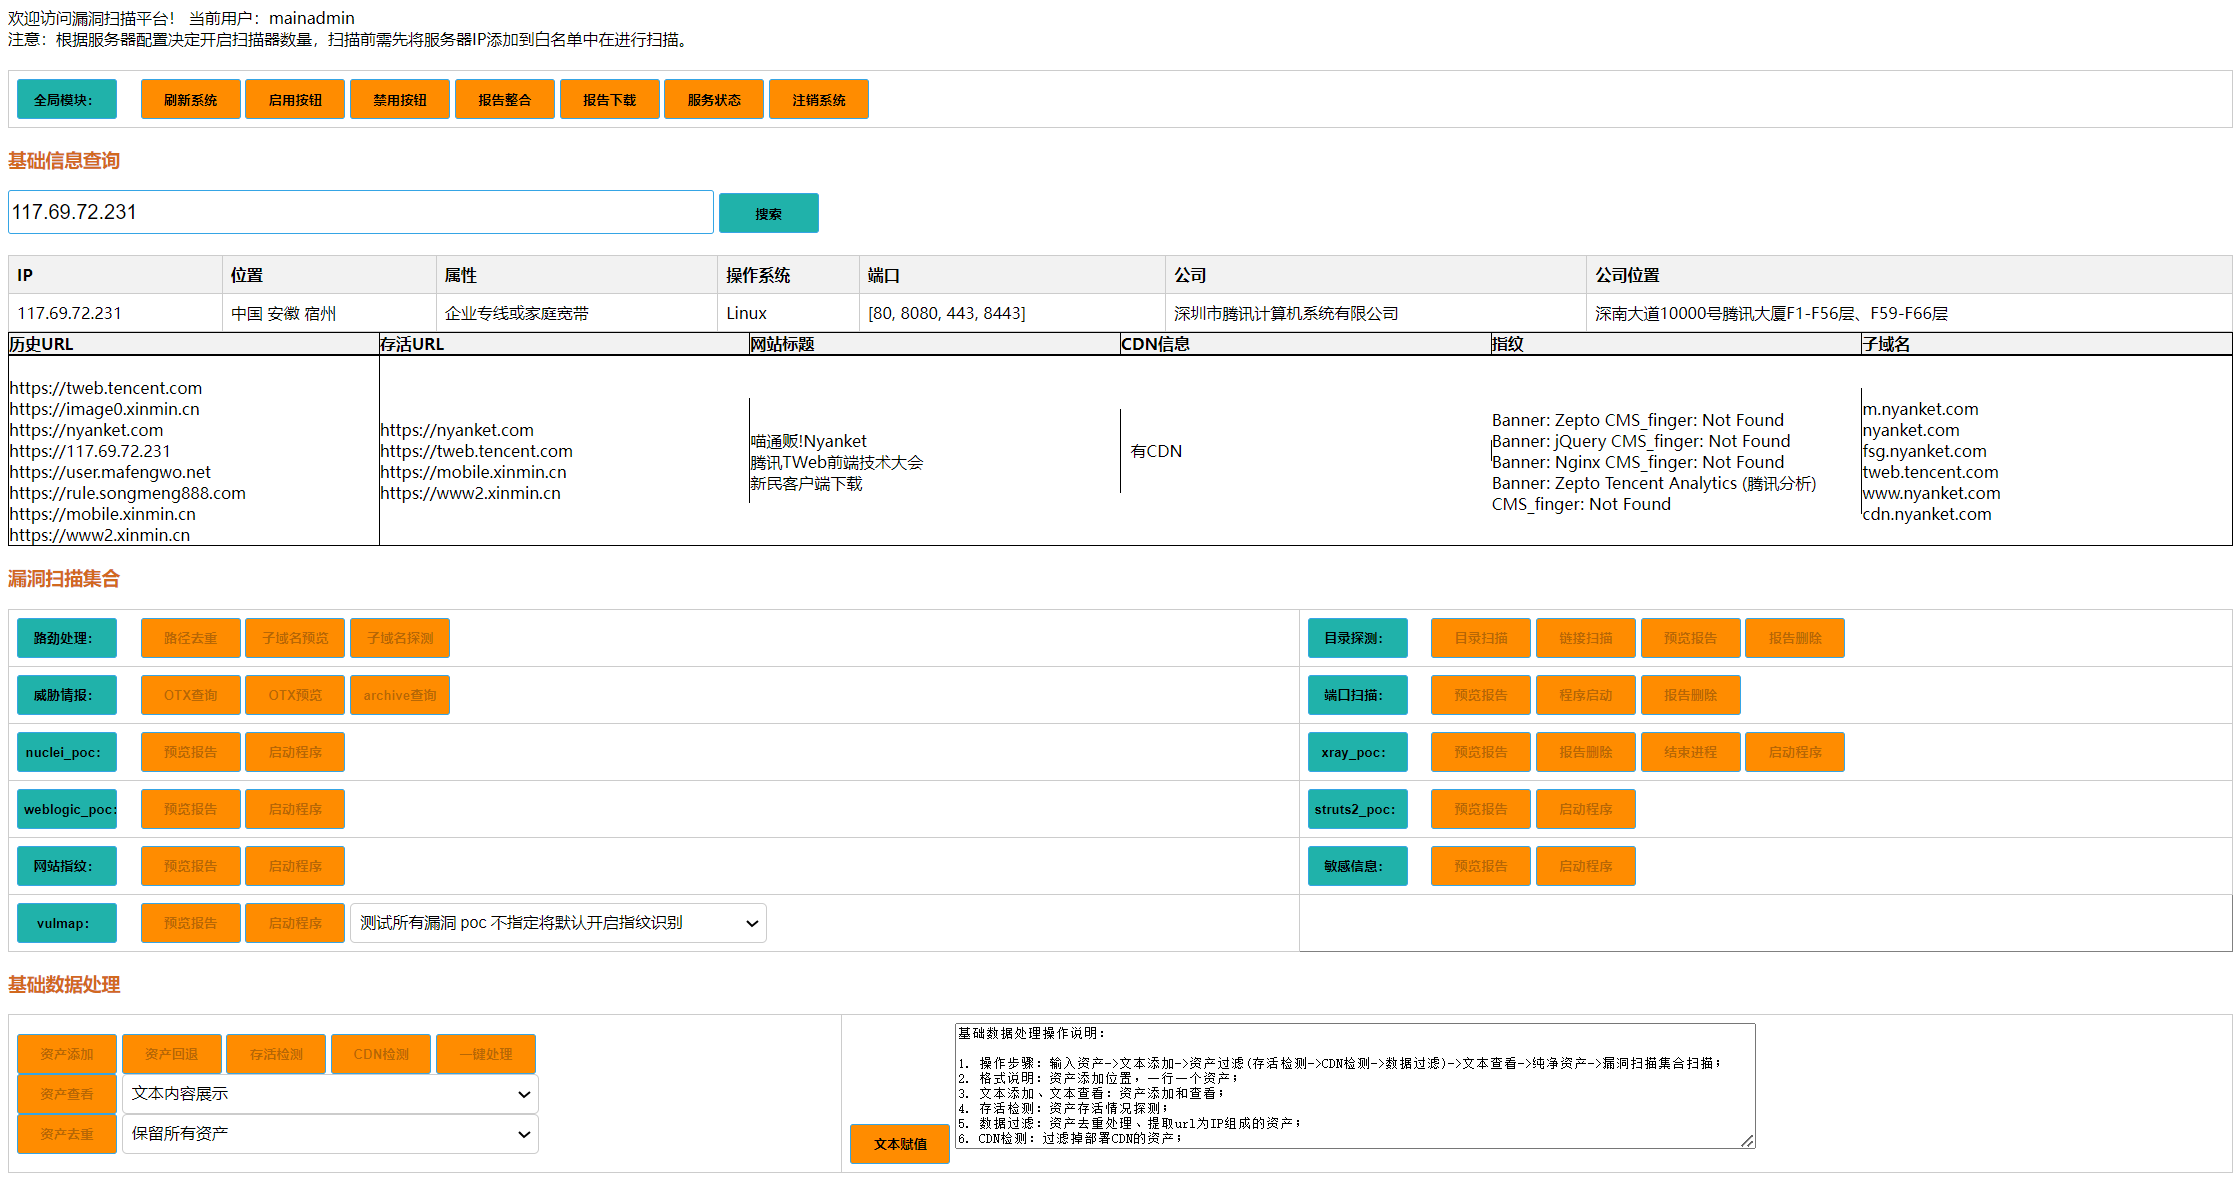
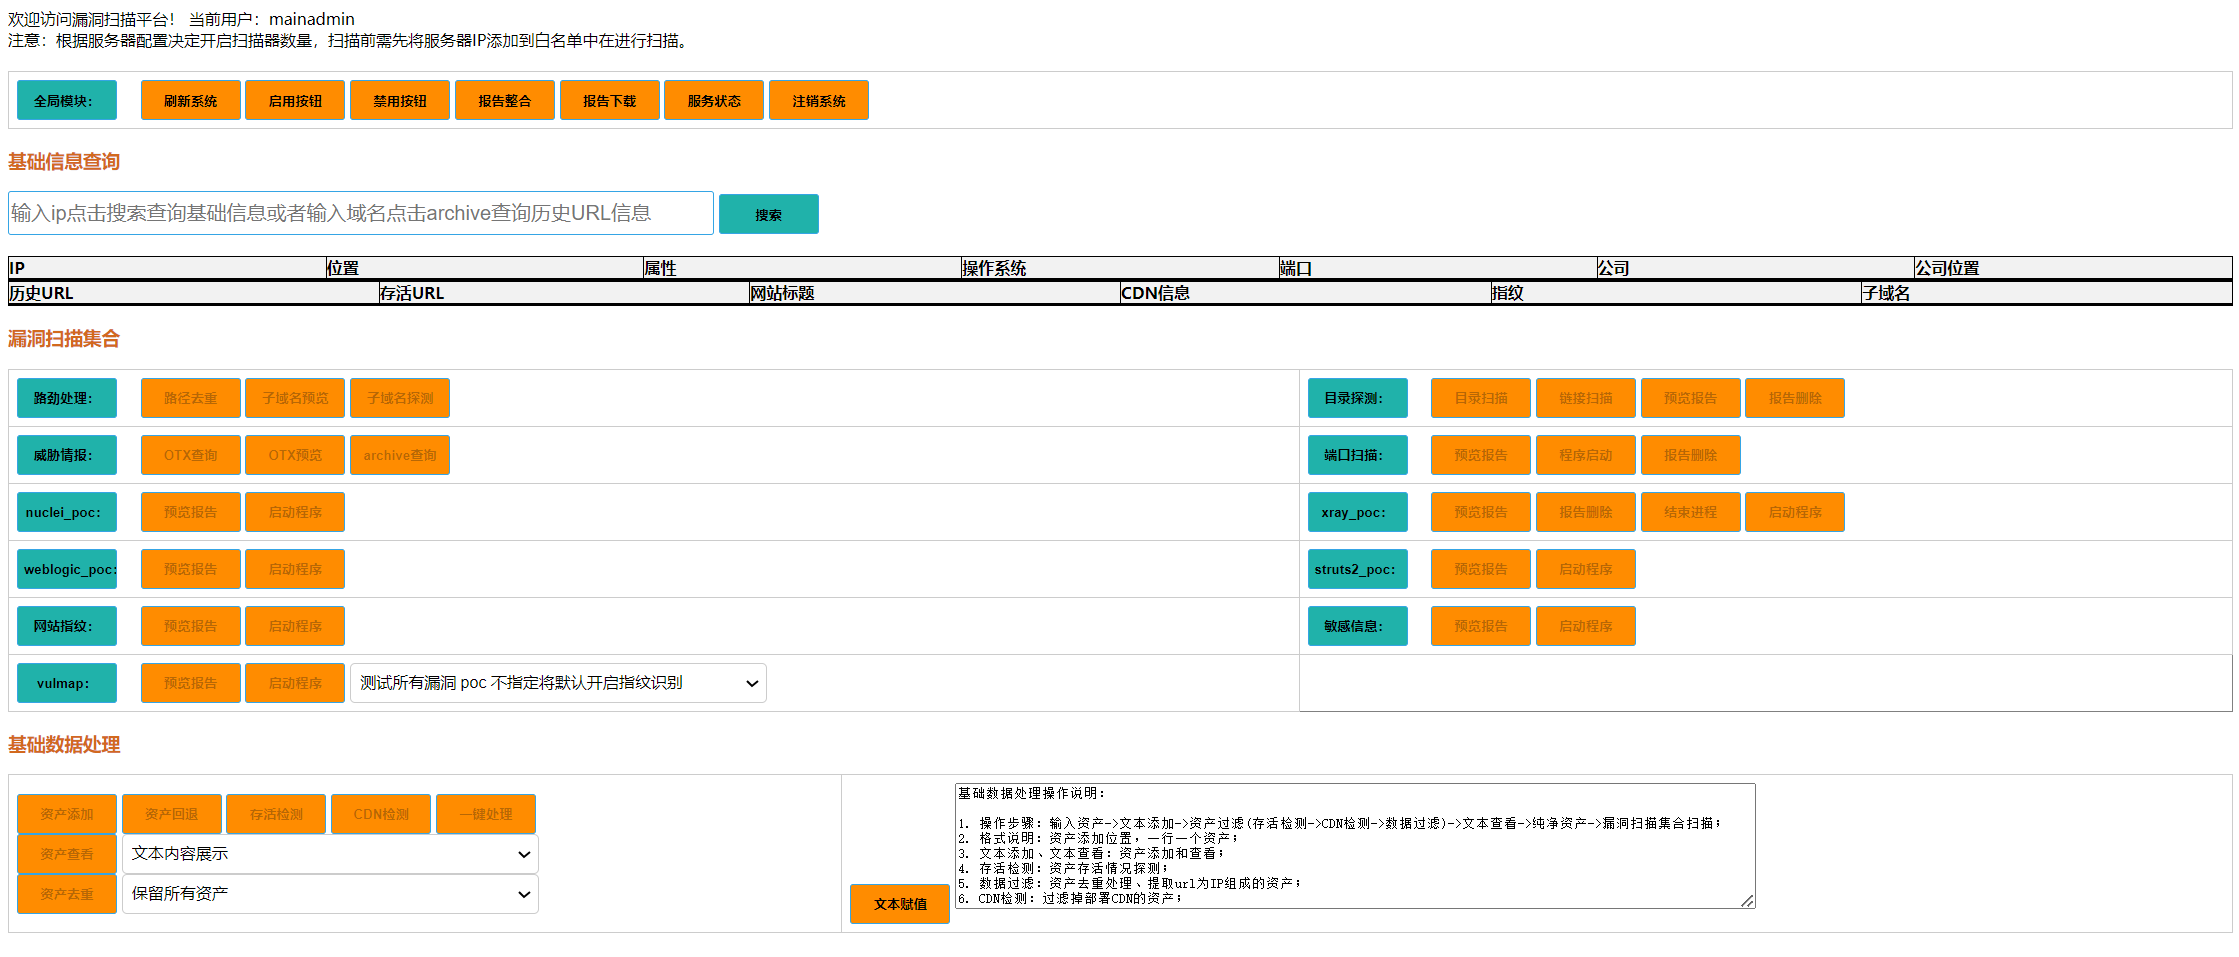
公司名和公司位置查询优化

diff --git a/templates/index.html b/templates/index.html
@@ -39,7 +39,7 @@
 	</div>
 	<br>
 	<div>
-		<table>
+		<!-- <table>
 			<tr>
 				<th>IP</th>
 				<th>位置</th>
@@ -58,7 +58,49 @@
 				<td>{{data4}}</td>
 				<td>{{data13}}</td>
 			</tr>
-		</table>
+		</table> -->
+	</div>
+	<div class="div-container" style="background-color:#f2f2f2">
+		<div class="inner-div"><strong>IP</strong></div>
+		<div class="inner-div"><strong>位置</strong></div>
+		<div class="inner-div"><strong>属性</strong></div>
+		<div class="inner-div"><strong>操作系统</strong></div>
+		<div class="inner-div"><strong>端口</strong></div>
+		<div class="inner-div"><strong>公司</strong></div>
+		<div class="inner-div"><strong>公司位置</strong></div>
+	</div>
+	<div class="div-container">
+		<div class="inner-div">
+			{{data2}}
+		</div>
+		<div class="inner-div">
+			{{data5}}
+		</div>
+		<div class="inner-div">
+			{{data12}}
+		</div>
+		<div class="inner-div">
+			{{data8}}
+		</div>
+		<div class="inner-div">
+			{{data6}}
+		</div>
+		<div class="inner-div">
+			{% for kd in data4 %}
+				<tr>
+					<br>
+					<td>{{ kd }}</td>
+				</tr>
+				{% endfor %}
+			</div>
+		<div class="inner-div">
+			{% for kdk in data13 %}
+				<tr>
+					<br>
+					<td>{{ kdk }}</td>
+				</tr>
+				{% endfor %}
+			</div>
 	</div>
 	<div class="div-container" style="background-color:#f2f2f2">
 		<div class="inner-div"><strong>历史URL</strong></div>
@@ -67,7 +109,6 @@
 		<div class="inner-div"><strong>CDN信息</strong></div>
 		<div class="inner-div"><strong>指纹</strong></div>
 		<div class="inner-div"><strong>子域名</strong></div>
-
 	</div>
 
 
@@ -123,7 +164,6 @@
 			</tr>
 			{% endfor %}
 		</div>
-		
 	</div>
 	<h3>漏洞扫描集合</h3>
 	<table border="1">

diff --git a/basic.py b/basic.py
@@ -121,35 +121,37 @@ def icp_info(ip):
         'Host':'icp.chinaz.com',
         'X-Forwarded-For': generate_random_ip()
         }
-    #状态码为200并带http或者https的列表
-    domain_value = httpx_status.status_scan(ip)
+    #历史URL列表
+    domain_value = domain_scan(ip)
     
-    # 提取带cn或者com的列表
+    # 提取带域名后缀以cn或者com的列表，过滤掉IP的URL
     domain_list = []
     for ii in domain_value:
         if 'cn' in ii or 'com' in ii:
             domain_list.append(ii)
-
+    
     # 列表去重
     try:
         domain_list_uniq = list(set(domain_list))
-        domain_list_uniq_value = domain_list_uniq[0]
     except:
         pass
 
-    
+    icp_name_list = []
     if len(domain_list_uniq) == 0:
-        icp_name = "None"
+        icp_name_list.append("None")
     else:
         try:
-            res = requests.get(url+str(ii),headers=hearder,allow_redirects=False)
-            res.encoding = 'utf-8'
-            soup=BeautifulSoup(res.text,'html.parser')
-            soup_td = soup.find_all('td')
-            icp_name = soup_td[25].text
+            for jii in domain_list_uniq:
+                res = requests.get(url+str(jii),headers=hearder,allow_redirects=False)
+                res.encoding = 'utf-8'
+                soup=BeautifulSoup(res.text,'html.parser')
+                soup_td = soup.find_all('td')
+                icp_name = soup_td[25].text
+                icp_name_list.append(icp_name)
         except:
-            icp_name = "接口异常"
-    return icp_name
+            icp_name_list.append("None")
+    icp_name_list_uniq = list(set(icp_name_list))
+    return icp_name_list_uniq
 
 
 # 网站标题
@@ -183,24 +185,30 @@ def title_scan(url_list):
 
 
 # 调用高德地图接口查询公司位置信息
-def amapscan(keyvalue):
-    url = "https://restapi.amap.com/v3/place/text?keywords="+keyvalue+"&offset=20&page=1&key="+gaodekey+"&extensions=all"
+def amapscan(company_list_list):
+   
     hearder={
         'User-Agent': 'Mozilla/5.0 (Windows NT 10.0; Win64; x64) AppleWebKit/537.36 (KHTML, like Gecko)'
         }
-    try:
-        res = requests.get(url,headers=hearder,allow_redirects=False)
-        res.encoding='utf-8'
-        restext = res.text
-        resdic=json.loads(restext)
-        if keyvalue == "None":
-            companylocation = "None"
-        else:
-            companylocation = resdic['pois'][0]['address']
-        return companylocation
-    except:
-        pass
-
+    company_location_list = []
+    if len(company_list_list) == 0:
+        company_location_list.append("None")
+    else:
+        try:
+            for company in company_list_list:
+                url = "https://restapi.amap.com/v3/place/text?keywords="+company+"&offset=20&page=1&key="+gaodekey+"&extensions=all"
+                res = requests.get(url,headers=hearder,allow_redirects=False)
+                res.encoding='utf-8'
+                restext = res.text
+                resdic=json.loads(restext)
+                companylocation = resdic['pois'][0]['address']
+                company_location_list.append(companylocation)
+        except:
+            company_location_list.append("None")
+    company_location_list_uniq = list(set(company_location_list))
+    return company_location_list_uniq
+      
+    
 
 # 基于证书查询子域名
 def subdomain_scan(domain):
@@ -345,3 +353,5 @@ def cdnscan(domain):
     except:
         pass
     return result
+
+# icp_info()

diff --git a/scan_main_web.py b/scan_main_web.py
@@ -48,7 +48,7 @@ def ipscaninterface():
         except:
             pass
     
-        #icp备案信息
+        #icp备案信息-列表返回
         try:
             data4 = basic.icp_info(ip)
         except:
@@ -139,11 +139,10 @@ def ipscaninterface():
             pass
     
     
-    
+        # data13=companylocation
         return render_template('index.html',data1=data1,data2=ip,data3=data3,data4=data4
         ,data5=localtion_list_result,data6=port,data7=history_domain,data8=os_type,data9=cdn_list
-        ,data10=site_title_list_result,data11=subdomain_list,data12=ipstatus,data13=companylocation
-        ,data20=str(user))
+        ,data10=site_title_list_result,data11=subdomain_list,data12=ipstatus,data13=companylocation,data20=str(user))
     else:
         return render_template('login.html')
 
